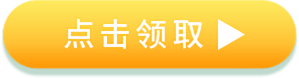
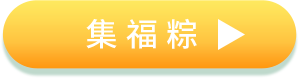
修改活动规则

Changed region(s): [[0.2107, 0.2308, 0.6923, 0.641]]

diff --git a/zongzi.html b/zongzi.html
@@ -28,7 +28,7 @@
 <!--分享弹窗开始-->
 	<div class="sharetext" style="display:none;">
 		<span></span>
-		<p class="bs">集齐四种粽子，即可拆开礼盒获取好礼，快去呼唤好友帮你一把！</p>
+		<p class="bs">点击右上角将活动转给好友，求帮忙集粽子，集齐四种粽子即可打开礼包，有机会获得端午好礼哦～</p>
 	</div>
 <!--分享弹窗结束-->
 <!--关注公众号开始-->
@@ -105,7 +105,7 @@
 			<p id="nickname">昵称</p>
 		</div>
 		<div class="mygift" style="display:none;" id="mygift">
-			<a href="mygift.html">我的礼品</a>
+			<a href="mygift.html">我的奖品</a>
 		</div>
 		<h2 class="titlesp" id="titleTips">全部集齐可以打开礼包</h2>
 		<div class="giftpt"><img src="images/lwpt.png"/></div>
@@ -141,13 +141,19 @@
 		<a class="lqgiftbtn" id="like" style="display: none;">帮好友助力</a>
 		<a class="lqgiftbtn" id="wantPlay" style="display: none;">我也要参与</a>
 		<div class="rulebox bs">
-			<h3>活动规则</h3>
-			<p><span>1、</span>邀请4个好友助力收集粽子，集齐全部粽子即可拆开礼盒。</p>
-			<p><span>2、</span>助力好友也可组局参与活动， 但参与活动需关注公众号。</p>
-			<h4>[ 活动礼品 ]</h4>
-			<p><span></span>娇韵诗化妆品礼盒 20个、<br/>视频会员月卡1000个</p>
-			<h4>[ 活动时间 ] </h4>
-			<p><span></span>2020年6月24日-6月28日</p>
+			<h3>活动说明</h3>
+			<h4>[ 活动时间 ]</h4>
+			<p>2020年6月24日-6月28日</p>
+			<h4>[ 活动奖品 ]</h4>
+			<p>精美化妆品礼盒（价值341元）1套（共计20个名额）或腾讯视频VIP月卡1张（共计1000个名额）</p>
+			<h4>[ 活动规则 ]</h4>
+			<p><span>1.</span>客户关注“盛京银行”微信公众号即可参与本活动。</p>
+			<p><span>2.</span>点击【集福粽】进入活动页面，邀请好友助力收集粽子，集齐4个粽子即可打开礼包，有机会获得端午好礼。</p>
+			<p><span>3.</span>每位好友仅可助力1次，好友也可关注公众号并参与活动。</p>
+			<p><span>4.</span>实物奖品中奖者需填写联系方式，奖品将于活动结束后十个工作日内免费邮寄至填写地址；其他奖品将以电子码形式线上派奖。</p>
+			<p><span>5.</span>如有疑问可咨询盛京银行客服电话95337。</p>
+			<p><span>6.</span>客户参与活动即视为同意本活动规则，盛京银行有权在中国法律范围内修改本活动规则。</p>
+			<p><span>7.</span>本活动最终解释权归盛京银行所有。</p>
 		</div>
 	</section>
 <script type="text/javascript">

diff --git a/index.html b/index.html
@@ -39,16 +39,17 @@
 			<img src="images/hdsmtop.png"/>
 			<div class="msgbox">
 				<h4>【活动时间】</h4>
-				<p>6月24日至6月28日</p>
+				<p>2020年6月24日至6月28日</p>
 				<h4>【活动奖品】</h4>
 				<p>精美化妆品礼盒（价值341元）1套（共计20个名额）或腾讯视频VIP月卡1张（共计1000个名额）</p>
 				<h4>【活动规则】</h4>
-				<p>1.客户关注“盛京银行”微信公众号即可参与本活动。</p>
-				<p>2.点击【集福粽】进入活动页面， 邀请好友助力收集粽子，集齐4个粽子即可打开礼包，有机会获得端午好礼。</p>
-				<p>3.每位好友仅可助力1次，好友也可关注公众号并参与活动。</p>
-				<p>4.实物奖品中奖者需填写联系方式，奖品将于活动结束后十个工作日内免费邮寄至填写地址；其他奖品将以电子码形式线上派奖。</p>
-				<p>5.如有疑问可咨询盛京银行客服电话95337. </p>
-				<p>6.客户参与活动即视为同意本活动规则，盛京银行有</p>
+				<p>1. 客户关注“盛京银行”微信公众号即可参与本活动。</p>
+				<p>2. 点击【集福粽】进入活动页面， 邀请好友助力收集粽子，集齐4个粽子即可打开礼包，有机会获得端午好礼。</p>
+				<p>3. 每位好友仅可助力1次，好友也可关注公众号并参与活动。</p>
+				<p>4. 实物奖品中奖者需填写联系方式，奖品将于活动结束后十个工作日内免费邮寄至填写地址；其他奖品将以电子码形式线上派奖。</p>
+				<p>5. 如有疑问可咨询盛京银行客服电话95337。</p>
+				<p>6. 客户参与活动即视为同意本活动规则，盛京银行有权在中国法律范围内修改本活动规则。</p>
+				<p>7. 本活动最终解释权归盛京银行所有。</p>
 			</div>
 		</div>
 	</div>
@@ -67,7 +68,7 @@
 
 	<script type="text/javascript" src="js/global.js"></script>
 
-	<!-- <script type="text/javascript" src="js/wechat.js" ></script> -->
+	<script type="text/javascript" src="js/wechat.js" ></script>
 
 	<script type="text/javascript">
 	const zongziPage = false;

diff --git a/css/m_main.css b/css/m_main.css
@@ -64,8 +64,8 @@ text-align:center;line-height:1.7rem;font-size:0.8rem;color:#fff;position:absolu
 
 .mask{width:100%;height:100%;background:#000;opacity: 0.8;position:fixed;z-index:9;}
 .sharetext{width:100%;position:fixed;z-index:10;top:0.5rem;}
-.sharetext span{display:block;width:2.125rem;height:3.725rem;background:url(../images/arrow2.png) no-repeat center;background-size:100%;right:2.3rem;position:absolute;}
-.sharetext p{width:90%;left:5%;background:#fff;border-radius:0.5rem;padding:1.0rem 1.3rem;position:absolute;z-index:10;top:3.55rem;font-size:0.8rem;color:#393939;line-height:1.425rem;}
+.sharetext span{display:block;width:4rem;height:8rem;background:url(../images/arrow2.png) no-repeat center;background-size:100%;right:2.3rem;position:absolute;}
+.sharetext p{width:90%;left:5%;background:#fff;border-radius:0.5rem;padding:1.0rem 1.3rem;position:absolute;z-index:10;top:6rem;font-size:0.8rem;color:#393939;line-height:1.425rem;}
 
 .gzgzhbox{width:13.125rem;height:15.6rem;background:url(../images/gzhbg.png) no-repeat center;background-size:100%;position:fixed;top:50%;left:50%;margin-left:-6.5626rem;margin-top:-7.8rem;z-index:10;}
 .gzgzhbox h2{width:100%;font-size:0.85rem;line-height:1.5rem;text-align:center;color:#12200A;padding:1.0rem 0 0.45rem;}

diff --git a/mygift.html b/mygift.html
@@ -2,7 +2,7 @@
 <html>
 <head>
 	<meta http-equiv="Content-Type" content="text/html; charset=UTF-8">
-	<title>我的礼品</title>
+	<title>我的奖品</title>
     <meta name="keywords" content="" />
 	<meta name="description" content="" />
 	<meta name="viewport" content="width=device-width,minimum-scale=1.0,maximum-scale=1.0,user-scalable=no,minimal-ui">
@@ -27,10 +27,10 @@
 		<div class="giftbox">
 			<span class="ycone"><img src="images/ptyc.png"/></span>
 			<span class="yctwo"><img src="images/ptyc.png"/></span>
-			<div class="jplogo"><img alt="礼品图片" src="images/zz1.png" id="giftImage"/></div>
+			<div class="jplogo"><img alt="奖品图片" src="images/zz1.png" id="giftImage"/></div>
 			<div class="giftmsg">
-				<h4>我的礼品</h4>
-				<h2>礼品名称：<span id="packageName"></span> </h2>
+				<h4>我的奖品</h4>
+				<h2>奖品名称：<span id="packageName"></span> </h2>
 				<h2 style="display: none;" id="giftCode">激活码：<span id="giftCodeText"></span> </h2>
 				<h2 style="display: none;" id="contact">收件人：<span id="contactText"></span> </h2>
 				<h2 style="display: none;" id="address">收件地址：<span id="addressText"></span> </h2>
